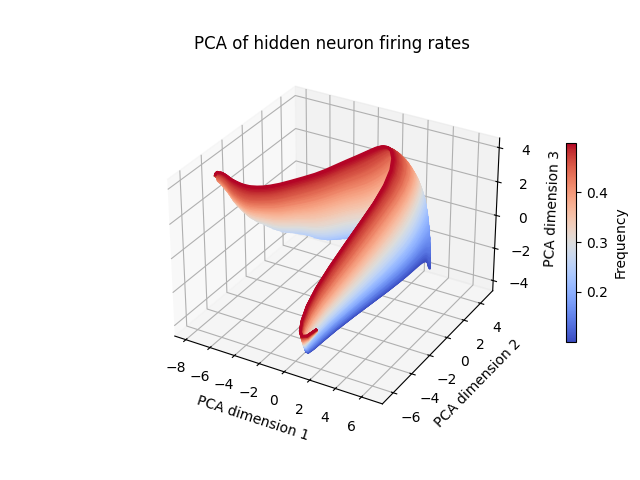
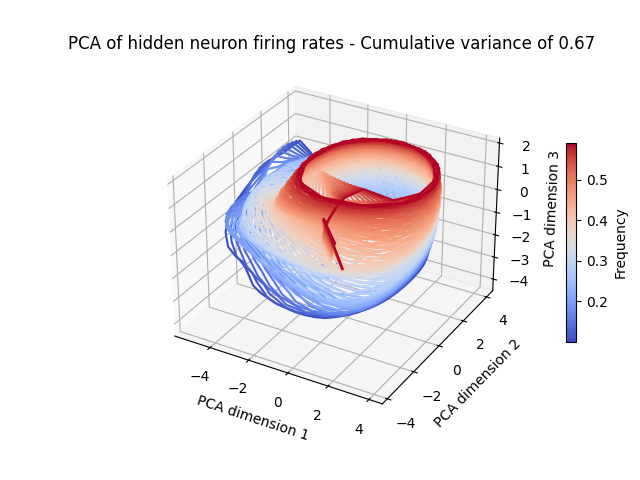
[update] used new pca functions in sinewavegenerator example

diff --git a/scripts/pca_ctrnn.py b/scripts/pca_ctrnn.py
@@ -1,3 +1,4 @@
+# pylint: disable=duplicate-code
 """Example of how to use the `compute_pca` function."""
 
 import jax.numpy as jnp
@@ -10,7 +11,7 @@ import matplotlib.pyplot as plt
 from ctrnn_jax.model import CTRNNCell
 from ctrnn_jax.tasks import SineWaveGenerator
 from ctrnn_jax.training import create_train_state, ModelParameters
-from ctrnn_jax.analyses import compute_pca
+from ctrnn_jax.pca import compute_pca, cumulative_variance
 
 
 # Initialize a key
@@ -19,8 +20,8 @@ key = random.PRNGKey(0)
 # Configure model parameters
 HIDDEN_NEURONS = 100
 OUTPUT_NEURONS = 1
-ALPHA = jnp.float32(0.1)
-NOISE_SCALAR = jnp.float32(0.1)
+ALPHA = jnp.float32(1.0)
+NOISE_SCALAR = jnp.float32(0.00)
 
 # Initialize model
 ctrnn = nn.RNN(
@@ -51,9 +52,9 @@ params = ModelParameters(analysis_state)
 params.deserialize("./data/params_example.bin")
 
 # Configure task parameters
-frequencies = jnp.arange(0.1, 0.5, 0.001)
+frequencies = jnp.arange(0.1, 0.6, 0.01)
 TASK_TIME = 50
-BATCH_SIZE = 8
+BATCH_SIZE = 10
 
 # Initalize task
 key, task_key = random.split(key, num=2)
@@ -73,6 +74,16 @@ model_behavior, _ = compute_pca(
     N_COMPONENTS,
 )
 
+# Compute cumulative variance of first 3 principal components
+key, var_key = random.split(key, num=2)
+variance_array = cumulative_variance(
+    var_key,
+    analysis_state,
+    params.params,
+    tf_dataset_train,
+)
+pc3_variance = round(variance_array[2].item(), 2)
+
 # Visualize PCA
 # pylint: disable=invalid-sequence-index
 cmap = plt.get_cmap("coolwarm")
@@ -89,7 +100,9 @@ for i, freq in enumerate(frequencies):
 ax.set_xlabel("PCA dimension 1")
 ax.set_ylabel("PCA dimension 2")
 ax.set_zlabel("PCA dimension 3")
-ax.set_title("PCA of hidden neuron firing rates")
+ax.set_title(
+    f"PCA of hidden neuron firing rates - Cumulative variance of {pc3_variance}"
+)
 sm = mpl.cm.ScalarMappable(cmap=cmap, norm=norm)
 sm.set_array([])
 cbar = plt.colorbar(sm, ax=ax, fraction=0.02, pad=0.1)

diff --git a/scripts/train_ctrnn.py b/scripts/train_ctrnn.py
@@ -1,3 +1,4 @@
+# pylint: disable=duplicate-code
 """Example of how to train `CTRNNCell`."""
 
 import jax.numpy as jnp
@@ -18,13 +19,13 @@ from ctrnn_jax.training import (
 
 
 # Initialize a key
-key = random.PRNGKey(0)
+key = random.PRNGKey(69)
 
 # Configure model parameters
 HIDDEN_NEURONS = 100
 OUTPUT_NEURONS = 1
-ALPHA = jnp.float32(0.1)
-NOISE_SCALAR = jnp.float32(0.1)
+ALPHA = jnp.float32(1.0)
+NOISE_SCALAR = jnp.float32(0.025)
 
 # Initialize model
 ctrnn = nn.RNN(
@@ -38,9 +39,9 @@ ctrnn = nn.RNN(
 )
 
 # Configure task parameters
-frequencies = jnp.arange(0.1, 0.5, 0.001)
+frequencies = jnp.arange(0.1, 0.6, 0.01)
 TASK_TIME = 50
-BATCH_SIZE = 8
+BATCH_SIZE = 10
 
 # Initalize task
 key, task_key = random.split(key, num=2)
@@ -92,7 +93,7 @@ plt.plot(jnp.arange(EPOCHS), metrics_history["train_loss"])
 plt.title("Loss over training epochs")
 plt.xlabel("Training epoch")
 plt.ylabel("Mean squared error")
-plt.savefig("./results/loss_curve_example.png")
+plt.savefig("./results/loss_curve.png")
 
 # Save model parameters
 params = ModelParameters(train_state)
